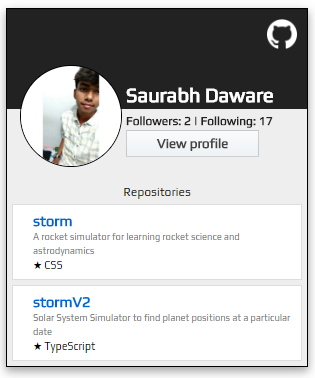
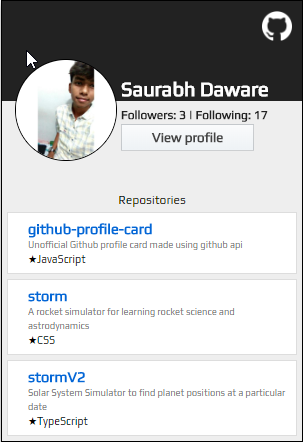
supports n repostries

Changed region(s): [[0.0, 0.0, 1.0, 1.0], [0.3861, 0.4365, 0.6238, 0.4656]]

diff --git a/card.js b/card.js
@@ -20,11 +20,16 @@ class HttpJS{
         })
     }
 }
+function compareStrings (string1, string2) {
+        string1 = string1.toLowerCase();
+        string2 = string2.toLowerCase();
+    return string1 === string2;
+}
 
 if(document.getElementById('card') == null){console.log("please write script tag at the end of the body tag");}
 let username = document.getElementById('card').getAttribute('username');
-let repo1 = document.getElementById('card').getAttribute('repo1');
-let repo2 = document.getElementById('card').getAttribute('repo2');
+let repo = document.getElementById('card').getAttribute('repos');
+let repos = repo.split(/\s*,\s*/);
 
 let head  = document.getElementsByTagName('head')[0];
 let link  = document.createElement('link');
@@ -35,10 +40,9 @@ link.media = 'all';
 head.appendChild(link);
 
 class Card{
-    constructor(username,repo1=null,repo2=null){
+    constructor(username,repos=[]){
         this.username = username;
-        this.repo1 = repo1;
-        this.repo2 = repo2;
+        this.repos = repos;
     }
     create(){
         let http = new HttpJS();
@@ -61,48 +65,49 @@ class Card{
         </div><br><br><br><br>
         <span id='github-card-repo-headline' style='font-size:9pt;color:#777font-weight:bold;margin:text-align:center'><center>Repositories</center></span>
         <div class='github-card-repos' id='github-card-repos'>
-            <div id='github-card-repo1' class='github-card-repo'></div>
-            <div id='github-card-repo2' class='github-card-repo'></div>
         </div>
     </div>
 `;      }).then(()=>{
-            if((this.repo1== null || this.repo1 == undefined || this.repo1 == '') && (this.repo2 == null || this.repo2 == undefined || this.repo2 == '')){document.getElementById('github-card-repo-headline').style.display = 'none'}
-            if(this.repo1 != null || this.repo1 != undefined || this.repo1 != ''){
+            if(this.repos.length == 0){
+				console.log("No repostries found.please refer list beloow to correct any typos.");
+				document.getElementById('github-card-repo-headline').style.display = 'none'
+			}
+            else{
                 try{
-                    http.get(`https://api.github.com/repos/${this.username}/${this.repo1}`).then((repo1Data)=>{
-                        if(repo1Data.name == undefined){
-                            document.getElementById('github-card-repo1').style.display = 'none';
-                        }
-                        document.getElementById('github-card-repo1').innerHTML =
-    `
-    <a class='github-card-repo-headline' href="${repo1Data.html_url}"><b>${repo1Data.name}</b></a><br>
-    <span class='github-card-repo-desc'>${repo1Data.description}</span><br><span style='font-size:8pt;'>&#9733; ${repo1Data.language}</span>
-    `
-                    }).catch((err)=>{document.getElementById('github-card-repo1').style.display = 'none';this.repo1 = null});
+					var reposNames = [];
+                    http.get(`https://api.github.com/users/${this.username}/repos`).then((reposData)=>{
+						for (var i=0; i < reposData.length; i++){
+							reposNames[i] = reposData[i].name;
+						}
+						console.log("Your Repositories:-")
+						for (var i=0; i < reposNames.length; i++){
+							console.log(reposNames[i]);
+						}
+						for (var i=0;i < this.repos.length ; i++){
+							for (var j=0; j < reposNames.length; j++){
+								if (compareStrings(repos[i],reposNames[j])){
+									var div = document.createElement('div');
+									div.id = 'github-card-repo'+(i+1);
+									div.innerHTML = "<a class='github-card-repo-headline' href="+reposData[j].html_url+"><b>"+reposData[j].name+"</b></a><br><span class='github-card-repo-desc'>"+reposData[j].description+"</span><br><span style='font-size:8pt;'>&#9733;"+reposData[j].language+"</span>";
+									div.classList.add('github-card-repo');
+									document.getElementById('github-card-repos').appendChild(div);
+								}
+							}
+						}
+                    }).catch((err)=>{
+						var caler_line = err.stack
+						console.log("Error02: "+err);
+						document.getElementById('github-card-repo-headline').style.display = 'none'}
+						);
                 }
-                catch{document.getElementById('github-card-repo1').style.display = 'none';this.repo1 = null}
-
-            }else{document.getElementById('github-card-repo1').style.display = 'none';this.repo1 = null}
-
-            if(this.repo2 !=null || this.repo2 !=undefined || this.repo2 != ''){
-                try{
-                    http.get(`https://api.github.com/repos/${this.username}/${this.repo2}`).then((repo2Data)=>{
-                        if(repo2Data.name == undefined){
-                            document.getElementById('github-card-repo2').style.display = 'none';
-                        }
-                        document.getElementById('github-card-repo2').innerHTML =
-    `
-    <a class='github-card-repo-headline' href="${repo2Data.html_url}"><b>${repo2Data.name}</b></a><br>
-    <span class='github-card-repo-desc'>${repo2Data.description}</span><br><span style='font-size:8pt;'>&#9733; ${repo2Data.language}</span>
-    `
-                    }).catch((err)=>{document.getElementById('github-card-repo2').style.display = 'none';this.repo2 = null})
-                }
-                catch{document.getElementById('github-card-repo2').style.display = 'none';this.repo2 = null}
-   
-            }else{document.getElementById('github-card-repo2').style.display = 'none'; this.repo2 = null}
-        }).catch((err)=>{console.log(err)})
-    }
+                catch{
+					console.log("Error03");
+					document.getElementById('github-card-repo-headline').style.display = 'none';
+				}
+			}
+		}).catch((err)=>{console.log(err)});
+	}
 }
 
-let card = new Card(username,repo1,repo2);
+let card = new Card(username,repos);
 card.create();

diff --git a/index.html b/index.html
@@ -1,11 +1,13 @@
 <!DOCTYPE html>
 <html>
     <head>
+		<meta content="text/html;charset=utf-8" http-equiv="Content-Type">
+		<meta content="utf-8" http-equiv="encoding">
     </head>
     <body>
         <!-- Some other html code-->
-        <div username='saurabhdaware' repo1='storm' repo2='stormv2' class='github-card' id="card"></div>
+        <div username='saurabhdaware' repos='github-profile-card  , storm,stormv2' class='github-card' id="card"></div>
         <!-- More html code-->
-        <script src='https://saurabhdaware.github.io/github-profile-card/card.js'></script>
+        <script src='card.js'></script>
     </body>
 </html>
